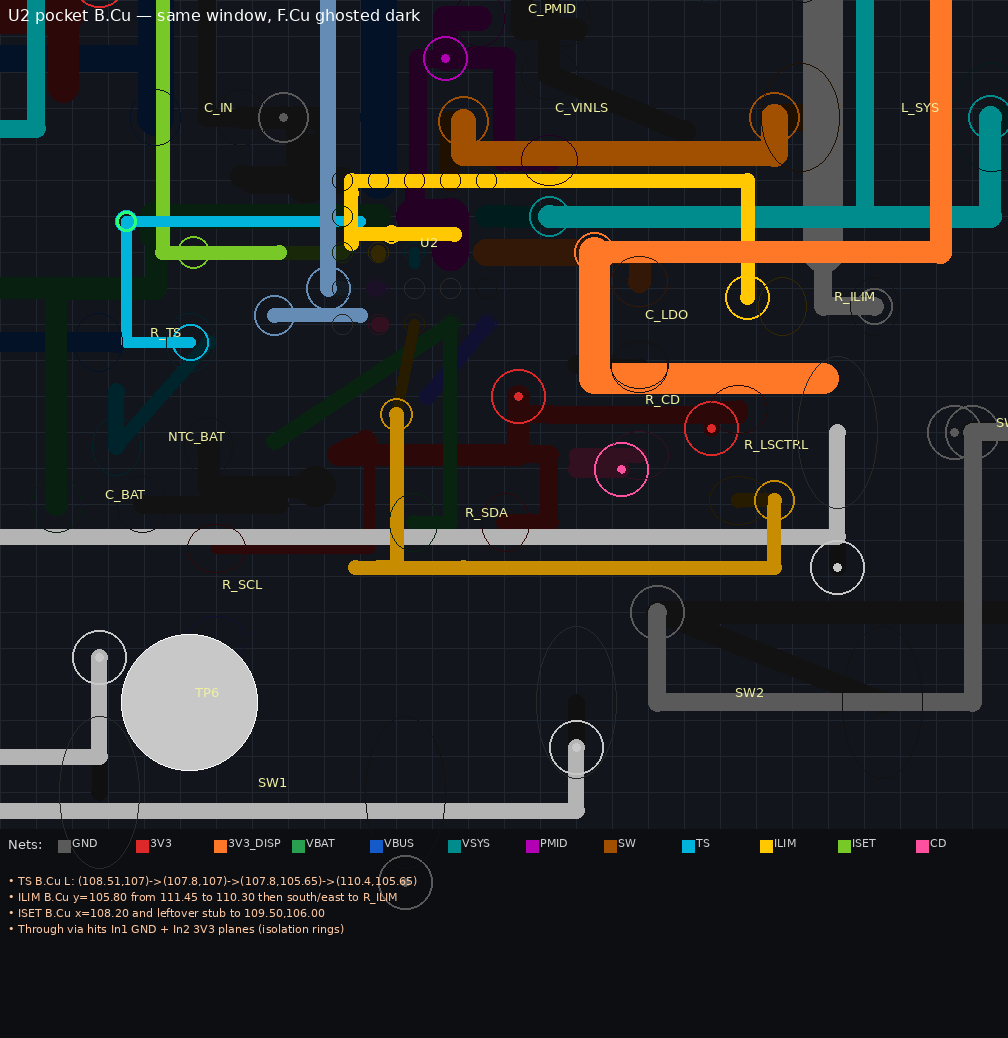
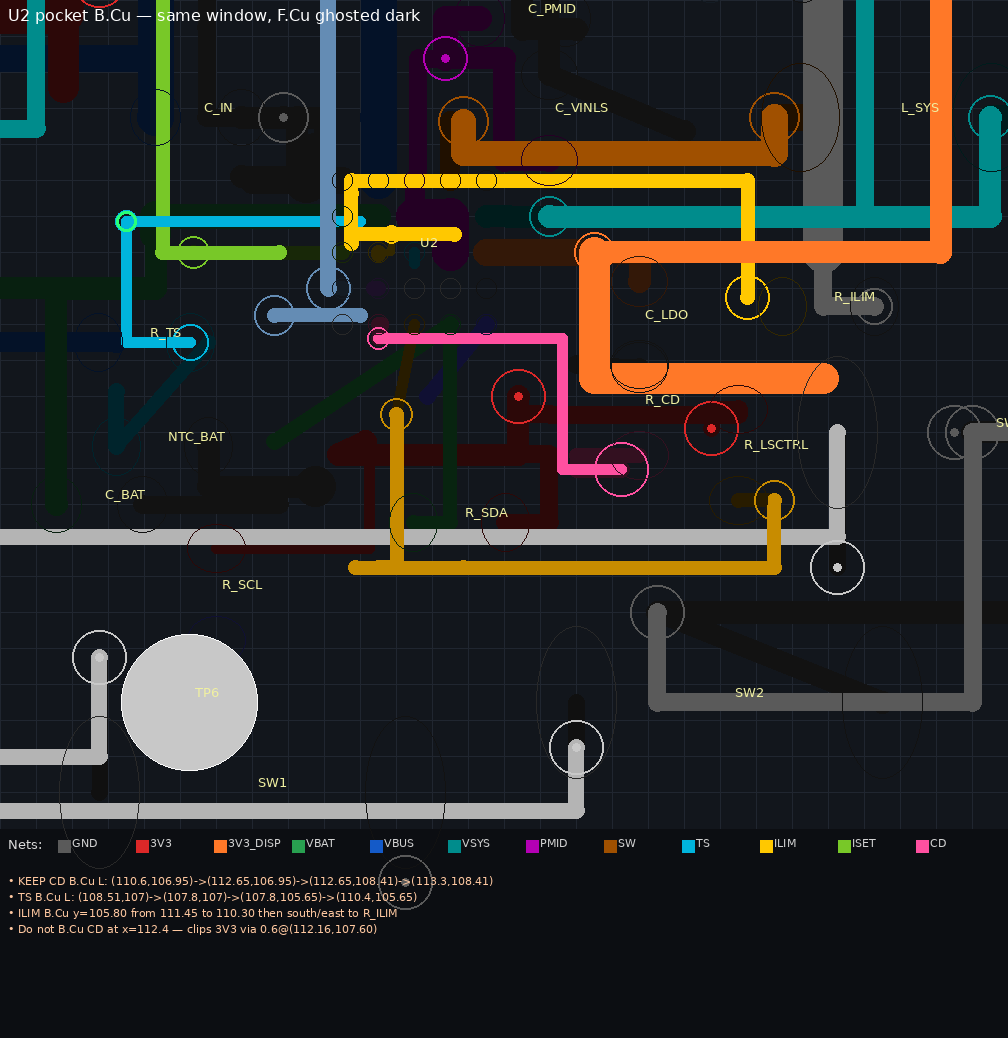
Reconnect U2 CD E2 and ILIM C2 with orthogonal dogbones.
CD uses a south-of-E2 via and B.Cu L at x=112.65, not via-in-pad
or a B.Cu run at x=112.4 that clips the 3V3 via. ILIM L-jogs to
the existing via instead of dropping onto the VBAT street.

Changed region(s): [[0.0, 0.8324, 0.4921, 0.9249], [0.369, 0.3083, 0.6151, 0.4624]]

diff --git a/kicad/tools/_u2_pocket_render.py b/kicad/tools/_u2_pocket_render.py
@@ -39,8 +39,8 @@ NET_COLORS = {
 LATENTS = [
     "KEEP: TS via (107.8,105.65) 0.25; ILIM via (110.75,105.80) 0.20; R_SCL (108.8,109.8,90)",
     "KEEP: R_SCL pad2 3V3 L; R_LSCTRL 3V3 tied at y=107.80 to via x=112.16",
-    "C3 TS, C2 ILIM, E2 CD, E5 SCL still islands. E1 is NC — never haul CD west",
-    "SW2 (114.5,111) and TP6 B.Cu (108.5,111) bound the south-east / south-west",
+    "KEEP: CD E2 dogbone via (110.6,106.95) 0.25 + B L x=112.65 to CD via (113.3,108.41)",
+    "KEEP: ILIM C2 F L w=0.08 onto via (110.75,105.80). C3 TS and E5 SCL still islands",
 ]
 
 
@@ -245,6 +245,7 @@ def render_layer(text, layer, title, callouts):
         ((110.55, 105.62, 110.95, 105.98), "ILIM via KEEP"),
         ((108.45, 108.95, 109.15, 110.65), "R_SCL KEEP"),
         ((107.5, 105.4, 108.1, 105.9), "TS via KEEP"),
+        ((110.45, 106.80, 110.75, 107.10), "CD via KEEP"),
     ]
     if layer == "F.Cu":
         for (bx0, by0, bx1, by1), _label in boxes:
@@ -281,7 +282,7 @@ def main():
     fcu = render_layer(
         text,
         "F.Cu",
-        "U2 pocket F.Cu — after sol_rscl_3v3 KEEP (shorting=0, unc=15)",
+        "U2 pocket F.Cu — after CD+ILIM KEEPs (shorting=0, unc=12)",
         LATENTS,
     )
     bcu = render_layer(
@@ -289,10 +290,10 @@ def main():
         "B.Cu",
         "U2 pocket B.Cu — same window, F.Cu ghosted dark",
         [
+            "KEEP CD B.Cu L: (110.6,106.95)->(112.65,106.95)->(112.65,108.41)->(113.3,108.41)",
             "TS B.Cu L: (108.51,107)->(107.8,107)->(107.8,105.65)->(110.4,105.65)",
             "ILIM B.Cu y=105.80 from 111.45 to 110.30 then south/east to R_ILIM",
-            "ISET B.Cu x=108.20 and leftover stub to 109.50,106.00",
-            "Through via hits In1 GND + In2 3V3 planes (isolation rings)",
+            "Do not B.Cu CD at x=112.4 — clips 3V3 via 0.6@(112.16,107.60)",
         ],
     )
     fcu_path = OUT / "u2_pocket_fcu_annotated.png"

diff --git a/kicad/tools/_pass_ag_apply_keeps.py b/kicad/tools/_pass_ag_apply_keeps.py
@@ -10,6 +10,7 @@ from pathlib import Path
 sys.path.insert(0, str(Path(__file__).resolve().parent))
 from _pass_ag_sexpr_lib import (
     add_segment,
+    add_via,
     load,
     netnum,
     save,
@@ -78,6 +79,25 @@ if "(at 114.6 108.25 90)" in text and not has_lsctrl_tie:
     applied.append("sol_3v3_lsctrl_tie")
     has_lsctrl_tie = True
 
+has_cd_e2 = "(at 110.6 106.95)" in text
+if has_lsctrl_tie and not has_cd_e2:
+    cd_net = netnum(text, "CD")
+    text = add_via(text, 110.6, 106.95, 0.25, 0.15, cd_net)
+    text = add_segment(text, 110.6, 106.8, 110.6, 106.95, 0.15, "F.Cu", cd_net)
+    text = add_segment(text, 110.6, 106.95, 112.65, 106.95, 0.12, "B.Cu", cd_net)
+    text = add_segment(text, 112.65, 106.95, 112.65, 108.41, 0.12, "B.Cu", cd_net)
+    text = add_segment(text, 112.65, 108.41, 113.3, 108.41, 0.12, "B.Cu", cd_net)
+    applied.append("sol_cd_e2_via")
+    has_cd_e2 = True
+
+has_ilim_dog = "(start 110.75 106.0)" in text
+if has_cd_e2 and not has_ilim_dog:
+    ilim_net = netnum(text, "ILIM")
+    text = add_segment(text, 110.6, 106.0, 110.75, 106.0, 0.08, "F.Cu", ilim_net)
+    text = add_segment(text, 110.75, 106.0, 110.75, 105.8, 0.08, "F.Cu", ilim_net)
+    applied.append("sol_ilim_c2_dogbone")
+    has_ilim_dog = True
+
 if not applied:
     if "(at 110.75 105.8)" in text and "(at 108.8 109.8 90)" in text:
         extra = ""
@@ -85,6 +105,10 @@ if not applied:
             extra += ", sol_rscl_3v3"
         if has_lsctrl_tie:
             extra += ", sol_3v3_lsctrl_tie"
+        if has_cd_e2:
+            extra += ", sol_cd_e2_via"
+        if has_ilim_dog:
+            extra += ", sol_ilim_c2_dogbone"
         print(
             "Pass-AG keeps already present: "
             f"iset_via_west, ts_via_corner, sol_combo_west{extra}"

diff --git a/kicad/tools/_pass_ag_try.py b/kicad/tools/_pass_ag_try.py
@@ -350,6 +350,26 @@ elif edit_name == "sol_3v3_lsctrl_tie":
     text = add_segment(text, 112.51, 107.8, 112.16, 107.8, 0.2, "F.Cu", rail_3v3_net)
     print("sol_3v3_lsctrl_tie added F.Cu 3V3 (112.51,107.8)-(112.16,107.8)")
 
+elif edit_name == "sol_cd_e2_via":
+    # Sol variant 2 (CD F→B→existing CD via). Independent probe, not VIP.
+    # Rejected: via-in-pad on E2 (110.6,106.8) and B vertical x=112.4
+    # (OVERLAP −0.120 vs 3V3 via 0.6@(112.16,107.60)).
+    # KEEP: dogbone south of E2, then B.Cu L at y=106.95 / x=112.65.
+    text = add_via(text, 110.6, 106.95, 0.25, 0.15, cd_net)
+    text = add_segment(text, 110.6, 106.8, 110.6, 106.95, 0.15, "F.Cu", cd_net)
+    text = add_segment(text, 110.6, 106.95, 112.65, 106.95, 0.12, "B.Cu", cd_net)
+    text = add_segment(text, 112.65, 106.95, 112.65, 108.41, 0.12, "B.Cu", cd_net)
+    text = add_segment(text, 112.65, 108.41, 113.3, 108.41, 0.12, "B.Cu", cd_net)
+    print("sol_cd_e2_via via (110.6,106.95) 0.25 + F stub + B L x=112.65")
+
+elif edit_name == "sol_ilim_c2_dogbone":
+    # Orthogonal F.Cu C2 → KEEP ILIM via (110.75,105.80). Do not drop
+    # ILIM onto x=110.6 / y=105.80 (VBAT RISK +0.020). w=0.08 keeps
+    # VBAT +0.070 and PMID +0.080 on the via vertical.
+    text = add_segment(text, 110.6, 106.0, 110.75, 106.0, 0.08, "F.Cu", ilim_net)
+    text = add_segment(text, 110.75, 106.0, 110.75, 105.8, 0.08, "F.Cu", ilim_net)
+    print("sol_ilim_c2_dogbone F L (110.6,106.0)->(110.75,106.0)->(110.75,105.8)")
+
 else:
     raise SystemExit(f"unknown edit {edit_name}")
 

diff --git a/kicad/reports/PASS_AG.md b/kicad/reports/PASS_AG.md
@@ -2,12 +2,12 @@
 
 **Board:** `e-ink-watch.kicad_pcb`  
 **From:** Pass-AF (`shorting=0`, `unc=10`)  
-**To:** Pass-AG (`shorting=0`, `unc=14` after `sol_3v3_lsctrl_tie`)  
+**To:** Pass-AG (`shorting=0`, `unc=12` after `sol_cd_e2_via` + `sol_ilim_c2_dogbone`)  
 **Tool:** `kicad-cli 9.0.9 pcb drc` + in-place sexpr edits
 
 ## Verdict
 
-**Partial.** Hard gates held. Combined Sol vision KEEP cleared the four U2 latents. Sol then browsed the repo: `sol_rscl_3v3` then `sol_3v3_lsctrl_tie` reconnected the west `R_SCL` pad2 and the leftover `R_LSCTRL` 3V3 stub (`unc` 16→14). C2/C3/E2/E5 still islands. Not production-ready.
+**Partial.** Hard gates held. Combined Sol vision KEEP cleared the four U2 latents. Sol then browsed the repo: `sol_rscl_3v3` then `sol_3v3_lsctrl_tie` reconnected the west `R_SCL` pad2 and the leftover `R_LSCTRL` 3V3 stub. Independent CD F→B KEEP (`sol_cd_e2_via`) and ILIM C2 dogbone (`sol_ilim_c2_dogbone`) closed E2 and C2 (`unc` 16→12). C3 TS and E5 SCL still islands. Not production-ready.
 
 ## KEEP (DRC-gated)
 
@@ -18,6 +18,8 @@
 | `sol_combo_west` in-place | ILIM via `(111.45, 105.8)` 0.5 → `(110.75, 105.8)` 0.20/0.15; ILIM F stub on C2; CD E-row + vertical retracted; TS F onto C3 stub; `R_SCL` `(108.8, 109.8, 90)`. `shorting=0`, `unc=16`. |
 | `sol_rscl_3v3` add F.Cu | Orthogonal 3V3 from `R_SCL` pad2 `(108.80, 109.29)` → `(110.50, 109.29)` → `(110.50, 108.25)` → existing island `(110.16, 108.25)`. Sol proposed after browsing the repo; first CD/E1 KEEP rejected. `shorting=0`, `unc=16→15`. |
 | `sol_3v3_lsctrl_tie` add F.Cu | One segment `(112.51, 107.80)–(112.16, 107.80)` w=0.20 ties leftover `R_LSCTRL` 3V3 stub onto the via vertical. Sol picked this as the orderly single-item KEEP; CD/TS not KEEP (SDA diagonal / VBAT street). `shorting=0`, `unc=15→14`. |
+| `sol_cd_e2_via` add F/B | CD E2 dogbone via `(110.6, 106.95)` `0.25/0.15` + F stub w=0.15 + B.Cu L `y=106.95` / `x=112.65` onto existing CD via `(113.3, 108.41)`. Sol's via-in-pad on E2 and B `x=112.4` rejected (3V3 via OVERLAP `−0.120`). `shorting=0`, `unc=14→13`. |
+| `sol_ilim_c2_dogbone` add F.Cu | Orthogonal w=0.08 `(110.6, 106.0)–(110.75, 106.0)–(110.75, 105.8)` onto KEEP ILIM via. Do not drop ILIM on `x=110.6` at `y=105.80` (VBAT RISK `+0.020`). `shorting=0`, `unc=13→12`. |
 
 Replay: `python3 tools/_pass_ag_apply_keeps.py` on the Pass-AF board.
 
@@ -37,13 +39,13 @@ In-place `(at …)` / endpoint edits keep KiCad item order. That avoided the Pas
 
 The four U2 latents from Pass-AG are **geometrically cleared** by `sol_combo_west` (DRC `shorting=0` after the same save). Remaining work is reconnect, not overlap.
 
-## Remaining unc=14
+## Remaining unc=12
 
-Previous islands plus C2 ILIM, C3 TS, E2 CD, E5 SCL, west 3V3, west 3V3_DISP, SDA to U1, PMIC_INT, GND A5–D5. Pocket 3V3 (`R_SCL` pad2 + `R_LSCTRL` pad2) is closed.
+GND A5–D5, west 3V3, west 3V3_DISP, SDA to U1, SCL E5 vs `R_SCL` pad1, SCL to U1, PMIC_INT, TS C3 vs TS B via `(107.8, 105.65)`. Pocket CD (E2) and ILIM (C2) are closed.
 
 ## Next
 
-Orthogonal F/B reconnect of TS C3, ILIM C2, CD E2 (east/south toward CD via `(113.30, 108.41)`, **not** west onto NC E1), SCL E5→`R_SCL` pad1. No In1/In2. No new overlap.
+Orthogonal F/B reconnect of TS C3 and SCL E5→`R_SCL` pad1. New CD B.Cu at `y=106.95` `x=110.60–112.65` — through vias there short CD. No In1/In2. No new overlap. East 0402 column stays (`R_CD`/`C_LDO` x=113.5, `R_LSCTRL` x=114.6, `R_ILIM` x=115.6).
 
 gpt-6-sol now browses with `tools/_sol_repo_explore.py`. NC pads must show in `inspect_pcb_window` / `probe_clearance` or it will haul CD onto E1.
 
@@ -52,5 +54,5 @@ gpt-6-sol now browses with `tools/_sol_repo_explore.py`. NC pads must show in `i
 - `tools/_pass_ag_sexpr_lib.py`, `_pass_ag_gate.py`, `_pass_ag_try.py`, `_pass_ag_apply_keeps.py`, `_pass_ag_run.sh`
 - `tools/_u2_pocket_render.py`, `_sol_vision_ask.py`, `_sol_repo_explore.py`, `_sol_board_query.py`
 - `reports/sol_views/`
-- `reports/PASS_AG_SOL.md`, `reports/PASS_AG_SOL_VISION.md`, `reports/PASS_AG_SOL_EXPLORE.md`, `reports/PASS_AG_SOL_EXPLORE_FOLLOWUP.md`, `reports/PASS_AG_SOL_STEP.md`
+- `reports/PASS_AG_SOL.md`, `reports/PASS_AG_SOL_VISION.md`, `reports/PASS_AG_SOL_EXPLORE.md`, `reports/PASS_AG_SOL_EXPLORE_FOLLOWUP.md`, `reports/PASS_AG_SOL_STEP.md`, `reports/PASS_AG_SOL_STEP2.md`
 - `LIVE_LOG.txt`

diff --git a/kicad/reports/PASS_AG_SOL_STEP2.md b/kicad/reports/PASS_AG_SOL_STEP2.md
@@ -1,0 +1,41 @@
+# gpt-6-sol CD round + independent KEEP (2026-09-24)
+
+Sol used workspace tools until HTTP 429 `free_limit_reached` (~01:57 UTC, quota reset 02:00 UTC). API key is not in the repo. Coordinates below that Sol probed during the cut-off round are **not** KEEP. Applied geometry is independent and DRC-gated.
+
+## Sol probes before 429 (do not apply)
+
+- CD via-in-pad on E2 `(110.60, 106.80)` / `(110.66, 106.80)` size 0.20 — DSBGA VIP. Independent: IPRETERM B RISK `+0.049`.
+- CD B.Cu at `y=106.80` to `x=112.4` then south — Independent: vertical `x=112.4` OVERLAP `−0.120` vs 3V3 via `0.6@(112.16, 107.60)`.
+
+Sol's chosen *family* from STEP1 was still correct: CD F.Cu → B.Cu → existing CD via `(113.30, 108.41)`, exit E2 only, never E1.
+
+## Independent probe (overlap=0)
+
+```text
+add_via(net=CD, at=(110.6, 106.95), size=0.25, drill=0.15)
+add_segment(net=CD, layer=F.Cu, start=(110.6, 106.8), end=(110.6, 106.95), width=0.15)
+add_segment(net=CD, layer=B.Cu, start=(110.6, 106.95), end=(112.65, 106.95), width=0.12)
+add_segment(net=CD, layer=B.Cu, start=(112.65, 106.95), end=(112.65, 108.41), width=0.12)
+add_segment(net=CD, layer=B.Cu, start=(112.65, 108.41), end=(113.3, 108.41), width=0.12)
+```
+
+Tightest other-net edges: SDA F `+0.102`, IPRETERM B `+0.120`, 3V3_DISP B `+0.115`, 3V3 via `+0.130`. `x=112.70` is tighter vs 3V3_DISP (`+0.065`); keep `112.65`. Via `y=107.05` is a cleaner dogbone but SDA RISK.
+
+## Applied KEEP `sol_cd_e2_via`
+
+DRC: **`shorting_items=0`**, `unc=14→13`, power/pocket gates held.
+
+## Applied KEEP `sol_ilim_c2_dogbone`
+
+Orthogonal F.Cu C2 onto the existing ILIM via. Do not drop ILIM on `x=110.6` at `y=105.80` (VBAT RISK `+0.020`).
+
+```text
+add_segment(net=ILIM, layer=F.Cu, start=(110.6, 106.0), end=(110.75, 106.0), width=0.08)
+add_segment(net=ILIM, layer=F.Cu, start=(110.75, 106.0), end=(110.75, 105.8), width=0.08)
+```
+
+Probe overlap=0 (VBAT `+0.070`, PMID `+0.080` on the via vertical). DRC: **`shorting_items=0`**, `unc=13→12`, power/pocket gates held. East 0402 column was not moved.
+
+## Remaining U2 islands
+
+TS C3 stub vs TS B via `(107.80, 105.65)`. SCL E5 vs `R_SCL` pad1 `(108.80, 110.31)` and U1. Through vias on the new CD B.Cu at `y=106.95` `x=110.60–112.65` short CD.

diff --git a/cursor.md b/cursor.md
@@ -32,6 +32,8 @@ Do not skip these on the next PCB pass.
 - ILIM F down to `y=105.80` has probe RISK edge `+0.000` vs VBAT F `y=105.60` w=0.28. Do not drop ILIM onto that street.
 - After a correction round, Sol's 3V3 L from `R_SCL` pad2 `(108.80, 109.29)` → `(110.50, 109.29)` → `(110.50, 108.25)` → island `(110.16, 108.25)` DRC-gated as `sol_rscl_3v3`: `shorting=0`, unc 16→15. Add-segment insert still needs the full gate (item-order flake).
 - Stepwise with Sol: leftover 3V3 stub `(112.51, 107.80)–(114.60, 107.80)` still fed `R_LSCTRL` pad2 but was an island vs via `(112.16, 107.60)`. One F.Cu tie `(112.51, 107.80)–(112.16, 107.80)` w=0.20 DRC-gated as `sol_3v3_lsctrl_tie`: `shorting=0`, unc 15→14. CD south of E2 still hits the SDA diagonal `(109.44, 108.10)–(111.40, 106.80)` — do not force a CD via there.
+- CD via-in-pad on E2 `(110.60, 106.80)` is not a KEEP (DSBGA). B.Cu CD vertical `x=112.4` OVERLAP `−0.120` vs 3V3 via `0.6@(112.16, 107.60)`. KEEP `sol_cd_e2_via`: via `(110.6, 106.95)` `0.25/0.15`, F stub `(110.6,106.8)–(110.6,106.95)` w=0.15, B L `y=106.95` / `x=112.65` onto existing CD via `(113.3, 108.41)`. `shorting=0`, unc 14→13. Through vias on that B.Cu run short CD.
+- ILIM C2 must L-jog to via `x=110.75`, not drop on `x=110.6` at `y=105.80` (VBAT RISK `+0.020`). KEEP `sol_ilim_c2_dogbone` w=0.08: `(110.6,106.0)–(110.75,106.0)–(110.75,105.8)`. `shorting=0`, unc 13→12. Vertical w=0.15 would RISK VBAT/PMID.
 
 ## Hard gates (do not relax)
 

diff --git a/kicad/reports/PASS_AG_SOL_STEP.md b/kicad/reports/PASS_AG_SOL_STEP.md
@@ -60,3 +60,8 @@ add_segment(net=3V3, layer=F.Cu,
 ```
 
 `set_via_at`, `set_seg_ends`, `set_fp_at`, `add_via` — **нет**. Конец `(112.16,107.80)` попадает на осмотренную существующую вертикаль 3V3 `(112.16,108.25)–(112.16,107.60)`. Плату я не редактировал: называть этот кандидат сохранённым KEEP можно лишь после применения одной транзакцией и проверки DRC с `shorting_items=0`, нулём приоритетных силовых и PMID-карманных КЗ; при провале — откатить. VBUS на док не подавать.
+
+## Applied KEEP
+
+Independent probe matched Sol: overlap=0. Applied as `sol_3v3_lsctrl_tie`. DRC: **`shorting_items=0`**, `unc=15→14`, power/pocket gates held. East 0402 column was not moved.
+
